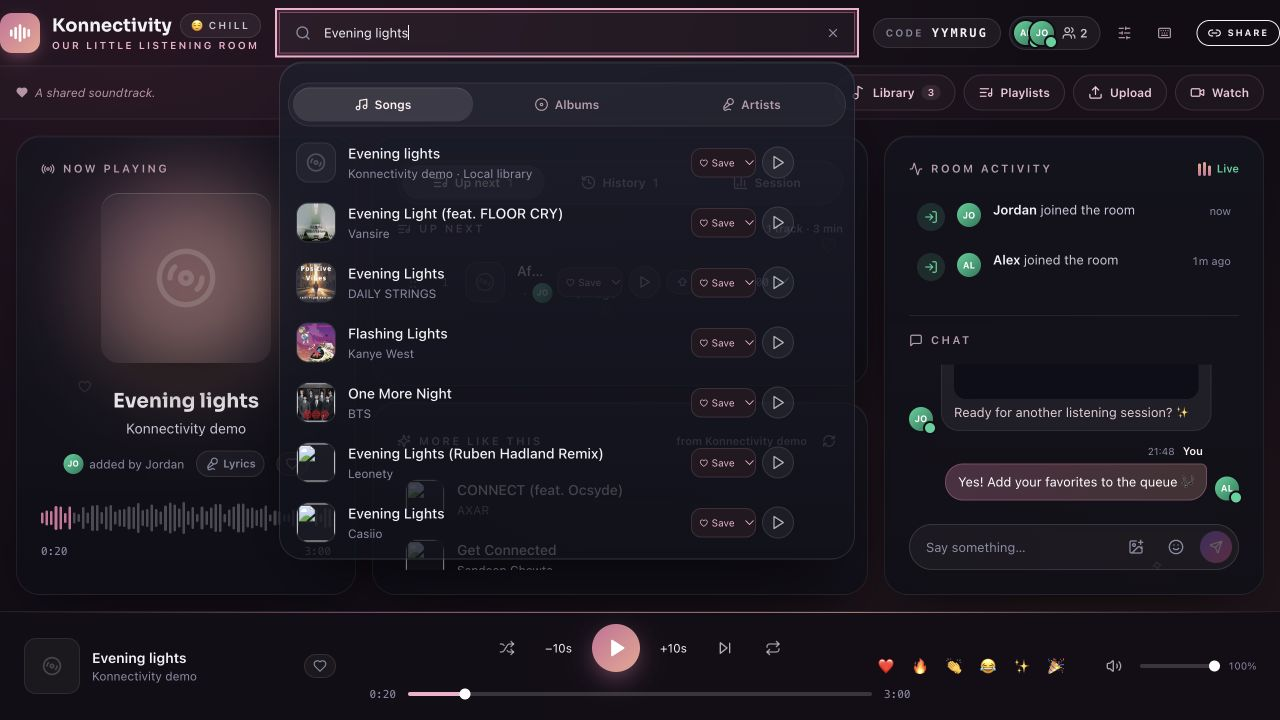
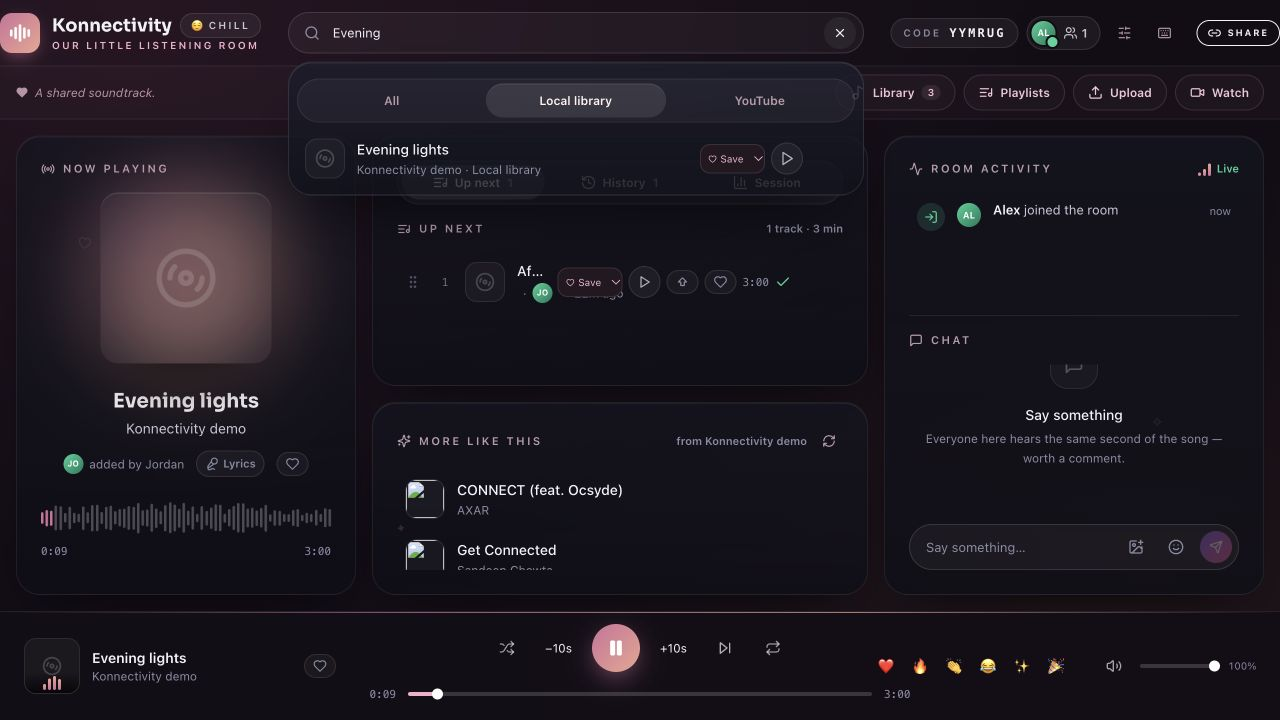
Add search source filters and keep clear button available during loading

diff --git a/components/SearchPanel.tsx b/components/SearchPanel.tsx
@@ -94,6 +94,7 @@ function SearchPanel({
   className?: string;
 }) {
   const [q, setQ] = useState("");
+  const [source, setSource] = useState<"all" | "local" | "youtube">("all");
   const [tab, setTab] = useState<SearchType>("songs");
   const [results, setResults] = useState<(Track | AlbumResult | ArtistResult)[]>([]);
   const [loading, setLoading] = useState(false);
@@ -144,7 +145,8 @@ function SearchPanel({
   const run = useCallback(
     async (term: string, type: SearchType, { persist = false } = {}) => {
       const clean = term.trim();
-      if (!clean) {
+      if (source === "local" || !clean) {
+        setLoading(false);
         setResults([]);
         return;
       }
@@ -165,7 +167,7 @@ function SearchPanel({
         if (runId.current === id) setLoading(false);
       }
     },
-    [remember]
+    [remember, source]
   );
 
   /**
@@ -204,6 +206,10 @@ function SearchPanel({
   // signal that the query was the one you meant.
   useEffect(() => {
     if (album) return;
+    ++runId.current;
+    setLoading(false);
+    setResults([]);
+    if (source === "local") return;
     setLinkInfo(null);
     setLinkError(null);
     if (looksLikeLink(q)) {
@@ -218,7 +224,7 @@ function SearchPanel({
     }
     const id = setTimeout(() => run(q, tab), DEBOUNCE_MS);
     return () => clearTimeout(id);
-  }, [q, tab, album, run, runLink]);
+  }, [q, tab, album, source, run, runLink]);
 
   // Overlay only: close on outside click.
   useEffect(() => {
@@ -253,29 +259,32 @@ function SearchPanel({
   );
 
   const openAlbum = useCallback(async (a: AlbumResult) => {
+    const id = ++runId.current;
     setLoading(true);
     setCursor(-1);
     try {
       const res = await fetch(`/api/album?id=${encodeURIComponent(a.albumId)}`);
       const data = await res.json();
+      if (runId.current !== id) return;
       // Fall back to what the search result already told us, so a partial
       // response still shows a header rather than an error.
       setAlbum(data.album ?? { ...a, tracks: [] });
     } catch {
-      setAlbum({ ...a, tracks: [] });
+      if (runId.current === id) setAlbum({ ...a, tracks: [] });
     } finally {
-      setLoading(false);
+      if (runId.current === id) setLoading(false);
     }
   }, []);
 
   /** The rows the arrow keys walk, whatever the current tab is showing. */
   const rows = useMemo(() => {
+    if (source === "youtube") return album ? album.tracks : results;
     if (album) return album.tracks;
     if (tab !== "songs" || q.trim().length < 2 || isLink) return results;
     const term = q.trim().toLowerCase();
     const local = library.filter(t => `${t.title} ${t.artist}`.toLowerCase().includes(term)).slice(0, 40);
-    return [...local, ...results];
-  }, [album, results, tab, q, isLink, library]);
+    return source === "local" ? local : [...local, ...results];
+  }, [album, results, tab, q, isLink, library, source]);
 
   const playResult = useCallback((track: Track) => { onPlayNow?.(track); setOpen(false); }, [onPlayNow]);
 
@@ -303,6 +312,7 @@ function SearchPanel({
         return;
       }
       if (isLink) {
+        if (source === "local") return;
         if (!album && !loading) runLink(q);
         return;
       }
@@ -332,7 +342,7 @@ function SearchPanel({
         return next;
       });
     }
-    if (e.key === "Tab" && !e.shiftKey && !album && rows.length === 0) {
+    if (e.key === "Tab" && source !== "local" && !e.shiftKey && !album && rows.length === 0) {
       // Nothing to walk yet — Tab cycles the type instead of leaving the field.
       e.preventDefault();
       setTab((t) => TABS[(TABS.findIndex((x) => x.id === t) + 1) % TABS.length].id);
@@ -411,7 +421,9 @@ function SearchPanel({
         </li>
       )}
 
-      {!album && isLink && linkError && !loading && (
+      {!album && source === "local" && isLink && <li className="py-4 text-sm text-muted">Switch to YouTube or All to open an online link.</li>}
+
+      {!album && source !== "local" && isLink && linkError && !loading && (
         <li className="flex flex-1">
           <EmptyState icon={<Link2 className="size-5" />} title="Couldn't open that link" hint={linkError} />
         </li>
@@ -445,8 +457,8 @@ function SearchPanel({
         <li className="flex flex-1">
           <EmptyState
             icon={<Search className="size-5" />}
-            title="Search YouTube Music"
-            hint="Songs, albums and artists, or paste a YouTube or Spotify link to bring a whole playlist. Anything you add goes straight into the room's queue."
+            title={source === "local" ? "Search your local library" : "Search music"}
+            hint={source === "local" ? "Find uploaded songs by title or artist. Switch to YouTube to search online." : "Search songs, albums and artists, or paste a YouTube or Spotify link."}
           />
         </li>
       )}
@@ -539,13 +551,15 @@ function SearchPanel({
         ref={inputRef}
         value={q}
         onChange={(e) => {
+          ++runId.current;
+          setLoading(false);
           setQ(e.target.value);
           setAlbum(null);
         }}
         onFocus={() => setOpen(true)}
         onKeyDown={onFieldKey}
-        placeholder="Search our songs or YouTube Music…"
-        aria-label="Search YouTube Music"
+        placeholder={source === "local" ? "Search local library…" : source === "youtube" ? "Search YouTube Music…" : "Search local songs or YouTube…"}
+        aria-label="Search music"
         role="combobox"
         aria-expanded={showResults}
         // Only claim to control the list while it's actually in the DOM — the
@@ -564,17 +578,23 @@ function SearchPanel({
       />
       <div className="absolute right-2 top-1/2 flex -translate-y-1/2 items-center gap-1">
         {loading && <Loader2 className="size-4 animate-spin text-muted" />}
-        {q && !loading && (
+        {q && (
           <button
             type="button"
             onClick={() => {
+              ++runId.current;
+              setLoading(false);
+              setLinkInfo(null);
+              setLinkError(null);
+              setCursor(-1);
               setQ("");
               setResults([]);
               setAlbum(null);
               inputRef.current?.focus();
             }}
             aria-label="Clear search"
-            className="grid size-7 place-items-center rounded-full text-muted transition-colors duration-200 ease-[var(--ease)] hover:bg-white/10 hover:text-ink"
+            title="Clear search"
+            className="grid size-8 place-items-center rounded-full bg-white/5 text-ink transition-colors duration-200 ease-[var(--ease)] hover:bg-white/10 hover:text-ink"
           >
             <X className="size-3.5" />
           </button>
@@ -609,7 +629,14 @@ function SearchPanel({
 
   const body = (
     <div id={listId}>
-      {!isEmptyQuery && !album && !isLink && tabs}
+      <div className="sw-seg mt-2" role="group" aria-label="Search source">
+        {([['all', 'All'], ['local', 'Local library'], ['youtube', 'YouTube']] as const).map(([id, label]) => (
+          <button key={id} type="button" aria-pressed={source === id} data-active={source === id} className="sw-seg-item" onClick={() => {
+            ++runId.current; setLoading(false); setResults([]); setAlbum(null); setLinkInfo(null); setLinkError(null); setCursor(-1); setSource(id); if (id === 'local') setTab('songs');
+          }}>{label}</button>
+        ))}
+      </div>
+      {!isEmptyQuery && !album && !isLink && source !== "local" && tabs}
       <div className={cn(variant === "overlay" ? "mt-2" : "mt-4 flex min-h-0 flex-1 flex-col")}>
         {list}
       </div>

diff --git a/docs/USER_GUIDE.md b/docs/USER_GUIDE.md
@@ -8,7 +8,7 @@ All admitted listeners can use shared playback controls. Play/pause, timeline dr
 
 ## Search, queue and video
 
-Use the always-visible search field or magnifier. Click a search result or **Play now** to start it immediately; **+** adds it to the queue. Online search playback automatically opens the corresponding YouTube embed. A selected upload may show album artwork rather than an official music video. Local library results stay audio.
+Use the always-visible search field or magnifier. Choose **All**, **Local library** or **YouTube** to filter the source. Local library searches uploaded songs without contacting YouTube. Use the **× Clear search** button to delete the query, including while results are loading. Click a search result or **Play now** to start it immediately; **+** adds it to the queue. Online search playback automatically opens the corresponding YouTube embed. A selected upload may show album artwork rather than an official music video. Local library results stay audio.
 
 The watch control can also accept a direct YouTube video link. Spotify links are resolved to matching YouTube tracks; this is not Spotify account playback. YouTube can reject an embed or downloader request. Server cookies do not sign another person into Premium.
 

diff --git a/README.md b/README.md
@@ -34,7 +34,7 @@ The upstream copyright notice and **PolyForm Noncommercial 1.0.0** license are p
 | Text and image chat | Chat while listening and share JPEG, PNG, GIF or WebP images. |
 | Reactions and presence | React to songs and see who is listening in the room. |
 | Optional AI DJ | Request music in plain English using your configured AI provider; disabled by default. |
-| Mobile and PWA | Use a responsive interface with mobile volume controls, persistent search and an installable web app. |
+| Mobile and PWA | Use a responsive interface with mobile volume controls, persistent search with All / Local library / YouTube filters and a clear button, and an installable web app. |
 | Server administration | Manage password-protected settings, optional downloader cookies and proxy configuration. |
 
 Synchronization is automatic, but network outages, browser autoplay rules, YouTube ads and unreported headphone delay can affect how closely devices stay aligned.
